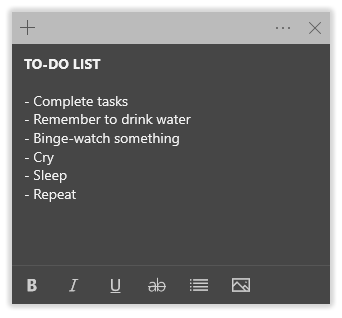
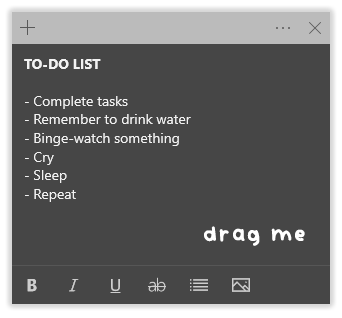
modify stickies position and sticky picture

Changed region(s): [[0.5848, 0.7075, 0.7602, 0.7925], [0.7895, 0.7075, 0.9064, 0.7642]]

diff --git a/index.html b/index.html
@@ -36,7 +36,7 @@
     <!-- <div id="icon4"><a onclick="return false" ondblclick="location=this.href" href="about.html"><img class = "reSize"  src="assets/images/icon1.png"</a></div> -->
 
     <div id="sticky1"><img class='sticky' src="assets/images/sticky1.png" alt="a sticky note picture consisting of to-do list items: Complete tasks, Remember to drink water, Binge-watch something, Cry, Sleep, Repeat "></div>
-    <div id="sticky2"><img style="margin-top: -20%; margin-left: 75%; position: relative;" src="assets/images/sticky2.png" alt="a sticky note picture consisting of shopping list items: ice cream, eggs, serotonin"></div>
+    <div id="sticky2"><img style="margin-top: -15%; margin-left: 55%; position: relative;" src="assets/images/sticky2.png" alt="a sticky note picture consisting of shopping list items: ice cream, eggs, serotonin"></div>
     
     <script src="https://unpkg.com/draggabilly@3/dist/draggabilly.pkgd.min.js"></script>
     <script>
